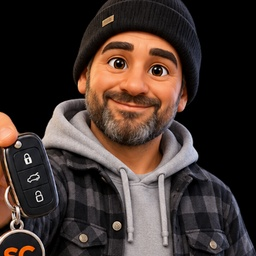
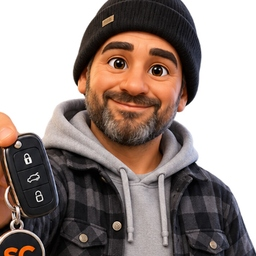
feat(chatbot): redesign floating AI chat trigger with white background, +3px size, pulse ripple, chat badge, and speech bubble

diff --git a/src/components/public/AIChatbot.tsx b/src/components/public/AIChatbot.tsx
@@ -236,101 +236,156 @@ export function AIChatbot({
 
     return (
         <>
-            {/* TOOLTIP INICIAL PROMPT */}
+            {/* TOOLTIP GLOBO DE DIÁLOGO / PROMPT DE CHAT */}
             {!isOpen && showBubbleTip && (
                 <div
                     onClick={() => setIsOpen(true)}
                     style={{
                         position: 'fixed',
-                        bottom: 96,
-                        right: 28,
+                        bottom: 104,
+                        right: 24,
                         zIndex: 99,
                         backgroundColor: '#FFFFFF',
                         color: '#0F172A',
                         padding: '10px 16px',
-                        borderRadius: 14,
-                        boxShadow: '0 8px 30px rgba(0,0,0,0.18)',
+                        borderRadius: 16,
+                        boxShadow: '0 10px 30px rgba(15, 23, 42, 0.18)',
                         border: '1px solid #E2E8F0',
-                        fontSize: 13,
-                        fontWeight: 600,
                         display: 'flex',
                         alignItems: 'center',
-                        gap: 8,
+                        gap: 10,
                         cursor: 'pointer',
-                        maxWidth: 240,
+                        maxWidth: 270,
                         animation: 'fadeIn 0.3s ease-out'
                     }}
                 >
-                    <img 
-                        src="/images/franco-avatar.jpg" 
-                        alt="Hernán" 
-                        style={{ width: 28, height: 28, borderRadius: '50%', objectFit: 'cover', border: '1.5px solid #EA580C', flexShrink: 0 }} 
-                    />
-                    <span>¡Hola! Soy Hernán. ¿En qué te puedo ayudar?</span>
+                    <div style={{
+                        width: 32,
+                        height: 32,
+                        borderRadius: '50%',
+                        overflow: 'hidden',
+                        border: '1.5px solid #EA580C',
+                        backgroundColor: '#FFFFFF',
+                        flexShrink: 0
+                    }}>
+                        <img 
+                            src="/images/franco-avatar.jpg" 
+                            alt="Hernán" 
+                            style={{ width: '100%', height: '100%', objectFit: 'cover' }} 
+                        />
+                    </div>
+                    <div style={{ textAlign: 'left' }}>
+                        <div style={{ fontSize: 12.5, fontWeight: 800, color: '#0F172A', lineHeight: 1.15 }}>
+                            ¡Hola! 👋 Soy Hernán
+                        </div>
+                        <div style={{ fontSize: 11, color: '#64748B', lineHeight: 1.2, marginTop: 2 }}>
+                            ¿Te asesoro con algún vehículo?
+                        </div>
+                    </div>
                     <button 
                         onClick={(e) => { e.stopPropagation(); setShowBubbleTip(false); }} 
-                        style={{ marginLeft: 'auto', color: '#94A3B8', padding: 2 }}
+                        aria-label="Cerrar sugerencia"
+                        style={{
+                            marginLeft: 'auto',
+                            color: '#94A3B8',
+                            padding: 2,
+                            border: 'none',
+                            background: 'transparent',
+                            cursor: 'pointer',
+                            display: 'flex',
+                            alignItems: 'center'
+                        }}
                     >
-                        <X size={12} />
+                        <X size={13} />
                     </button>
+                    {/* Flechita del globo */}
+                    <div className="speech-bubble-tail" />
                 </div>
             )}
 
-            {/* BOTÓN FLOTANTE TRIGGER */}
-            <button
-                onClick={() => setIsOpen(!isOpen)}
-                className="floating-chatbot-btn"
-                style={{
-                    position: 'fixed',
-                    bottom: 24,
-                    right: 24,
-                    zIndex: 99,
-                    width: 62,
-                    height: 62,
-                    borderRadius: '50%',
-                    background: 'linear-gradient(135deg, #0F172A 0%, #1E293B 60%, #EA580C 100%)',
-                    color: '#FFFFFF',
-                    border: '2.5px solid #EA580C',
-                    display: 'flex',
-                    alignItems: 'center',
-                    justifyContent: 'center',
-                    cursor: 'pointer',
-                    boxShadow: '0 8px 30px rgba(15, 23, 42, 0.45)',
-                    transition: 'all 0.3s cubic-bezier(0.16, 1, 0.3, 1)',
-                    padding: 0,
-                    overflow: 'hidden'
-                }}
-                title={isOpen ? 'Cerrar Asistente' : 'Hablar con Hernán (Asesor Virtual)'}
-            >
-                {isOpen ? (
-                    <ChevronDown size={30} style={{ color: '#FFFFFF' }} />
-                ) : (
-                    <div style={{ position: 'relative', width: '100%', height: '100%', display: 'flex', alignItems: 'center', justifyContent: 'center' }}>
-                        <img 
-                            src="/images/franco-avatar.jpg" 
-                            alt="Hernán Asesor" 
-                            style={{ 
-                                width: '100%', 
-                                height: '100%', 
-                                objectFit: 'cover', 
-                                borderRadius: '50%',
-                                display: 'block'
-                            }} 
-                        />
-                        <span style={{
-                            position: 'absolute',
-                            bottom: 2,
-                            right: 2,
-                            width: 12,
-                            height: 12,
+            {/* BOTÓN FLOTANTE TRIGGER (65px, Fondo Blanco, Borde Naranja, Efecto de Chat) */}
+            <div style={{ position: 'fixed', bottom: 24, right: 24, zIndex: 99 }}>
+                {!isOpen && <div className="chat-pulse-ring" />}
+                <button
+                    onClick={() => setIsOpen(!isOpen)}
+                    className="floating-chatbot-btn"
+                    style={{
+                        width: 65,
+                        height: 65,
+                        borderRadius: '50%',
+                        backgroundColor: '#FFFFFF',
+                        color: '#FFFFFF',
+                        border: '3px solid #EA580C',
+                        display: 'flex',
+                        alignItems: 'center',
+                        justifyContent: 'center',
+                        cursor: 'pointer',
+                        boxShadow: '0 8px 25px rgba(234, 88, 12, 0.35), 0 4px 12px rgba(0,0,0,0.12)',
+                        transition: 'all 0.3s cubic-bezier(0.16, 1, 0.3, 1)',
+                        padding: 0,
+                        position: 'relative'
+                    }}
+                    title={isOpen ? 'Cerrar Asistente' : 'Hablar con Hernán (Asesor Virtual IA)'}
+                >
+                    {isOpen ? (
+                        <div style={{
+                            width: '100%',
+                            height: '100%',
                             borderRadius: '50%',
-                            backgroundColor: '#22C55E',
-                            border: '2px solid #0F172A',
-                            boxShadow: '0 0 6px #22C55E'
-                        }} />
-                    </div>
-                )}
-            </button>
+                            backgroundColor: '#0F172A',
+                            display: 'flex',
+                            alignItems: 'center',
+                            justifyContent: 'center'
+                        }}>
+                            <ChevronDown size={30} style={{ color: '#FFFFFF' }} />
+                        </div>
+                    ) : (
+                        <div style={{ position: 'relative', width: '100%', height: '100%', borderRadius: '50%', overflow: 'hidden' }}>
+                            <img 
+                                src="/images/franco-avatar.jpg" 
+                                alt="Hernán Asesor" 
+                                style={{ 
+                                    width: '100%', 
+                                    height: '100%', 
+                                    objectFit: 'cover', 
+                                    display: 'block'
+                                }} 
+                            />
+
+                            {/* Badge de Chat en la esquina superior derecha */}
+                            <div style={{
+                                position: 'absolute',
+                                top: 2,
+                                right: 2,
+                                width: 20,
+                                height: 20,
+                                borderRadius: '50%',
+                                backgroundColor: '#EA580C',
+                                display: 'flex',
+                                alignItems: 'center',
+                                justifyContent: 'center',
+                                boxShadow: '0 2px 6px rgba(0,0,0,0.25)',
+                                border: '1.5px solid #FFFFFF'
+                            }}>
+                                <MessageSquare size={10} color="#FFFFFF" fill="#FFFFFF" />
+                            </div>
+
+                            {/* Punto Verde de Estado En Línea en la esquina inferior derecha */}
+                            <span style={{
+                                position: 'absolute',
+                                bottom: 2,
+                                right: 3,
+                                width: 12,
+                                height: 12,
+                                borderRadius: '50%',
+                                backgroundColor: '#22C55E',
+                                border: '2px solid #FFFFFF',
+                                boxShadow: '0 0 6px #22C55E'
+                            }} />
+                        </div>
+                    )}
+                </button>
+            </div>
 
             {/* VENTANA DEL CHATBOT */}
             {isOpen && (

diff --git a/src/styles/public.css b/src/styles/public.css
@@ -758,6 +758,45 @@
   box-shadow: 0 12px 35px rgba(234, 88, 12, 0.45) !important;
 }
 
+.chat-pulse-ring {
+  position: absolute;
+  top: -4px;
+  left: -4px;
+  right: -4px;
+  bottom: -4px;
+  border-radius: 50%;
+  border: 2px solid #EA580C;
+  animation: chatPulseRing 2.4s cubic-bezier(0.215, 0.61, 0.355, 1) infinite;
+  pointer-events: none;
+}
+
+@keyframes chatPulseRing {
+  0% {
+    transform: scale(0.95);
+    opacity: 0.8;
+  }
+  50% {
+    transform: scale(1.18);
+    opacity: 0;
+  }
+  100% {
+    transform: scale(1.18);
+    opacity: 0;
+  }
+}
+
+.speech-bubble-tail {
+  position: absolute;
+  bottom: -6px;
+  right: 28px;
+  width: 12px;
+  height: 12px;
+  background-color: #FFFFFF;
+  border-right: 1px solid #E2E8F0;
+  border-bottom: 1px solid #E2E8F0;
+  transform: rotate(45deg);
+}
+
 @keyframes chatSlideUp {
   from {
     opacity: 0;
